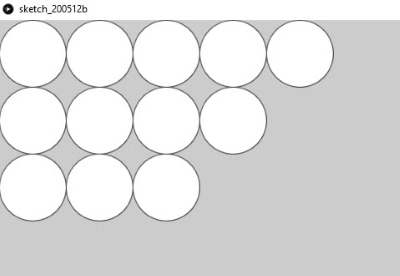
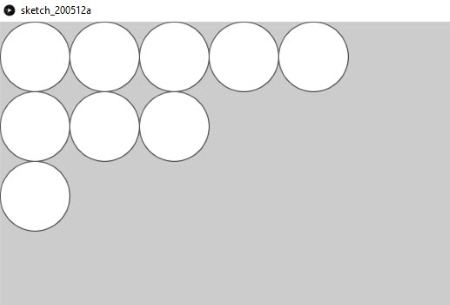
Typo etc.

Changed region(s): [[0.0, 0.0, 0.84, 0.8116]]

diff --git a/02 Aufgaben/05 Methoden/README.md b/02 Aufgaben/05 Methoden/README.md
@@ -43,25 +43,25 @@ Je nach Programmiersprache wird die Gross-/Klein-Schreibweise von Methodennamen 
     - Erster Buchstabe klein geschrieben und jedes neue Wort mit Grossbuchstaben beginnend.
     - z.B: bei `Java` -> _berechneSumme()_
 
-In unserem Processing-Projekt verwenden wir die Camel case Schreibweise.
+In unserem Processing-Projekt verwenden wir die Camel Case Schreibweise.
 
 ## Nutzen von Methoden
 
-### Code strukturieren
+### Strukturierung
 
 Methoden sind ein wichtiges Mittel zur Strukturierung von Quellcode. Dank der Verwendung von Methoden wird der Code leserlicher, wie oben am Beispiel mit den drei Kreisen zu sehen ist. Der Name der Methode (zeichneDreiKreise) ist selbsterklärend; jemand, der den Code liest kann so einfacher und schneller verstehen, was der Code macht.
 
-### Code wiederverwenden
+### Wiederverwendung
 
 Code, der in Methoden ausgelagert wird, ist wiederverwendbar; denn die Methode kann nicht nur einmal, sondern so oft wie es nötig ist und von überall her aufgerufen werden.
-
-Es gilt:
 
 ![Bild](res/code-auslagern.jpg)
 
 ## Methoden mit Parametern
 
-Einer Methode können Parameter übergeben werden. Im folgenden Beispiel nimmt die Methode _zeichneKreise()_  zwei Parameter entgegen. Der erste Paramater repräsentiert dabei die x-Koordinate, wo der Kreis gezeichnet werden soll. Und der zweite Parameter bestimmt, wieviele Kreise gezeichnet werden sollen. Die Methode wird drei mal aufgerufen.
+Einer Methode können Parameter übergeben werden.
+
+Im folgenden Beispiel nimmt die Methode _zeichneKreise()_  zwei Parameter entgegen. Der erste Paramater bestimmt, wo auf der x-Koordinate die Kreise gezeichnet werden sollen und der zweite Parameter bestimmt, wie viele Kreise gezeichnet werden sollen. 
 
 ```java
     void zeichneKreise(int x, int anzahl) {
@@ -72,9 +72,9 @@ Einer Methode können Parameter übergeben werden. Im folgenden Beispiel nimmt d
 
     void setup() {
         size(1024, 768);
-        zeichneKreise(50, 5);
-        zeichneKreise(150, 4);  
-        zeichneKreise(250, 3);  
+        zeichneKreise(50, 5);  
+        zeichneKreise(150, 3);  
+        zeichneKreise(250, 1);  
     }
 ```
 
